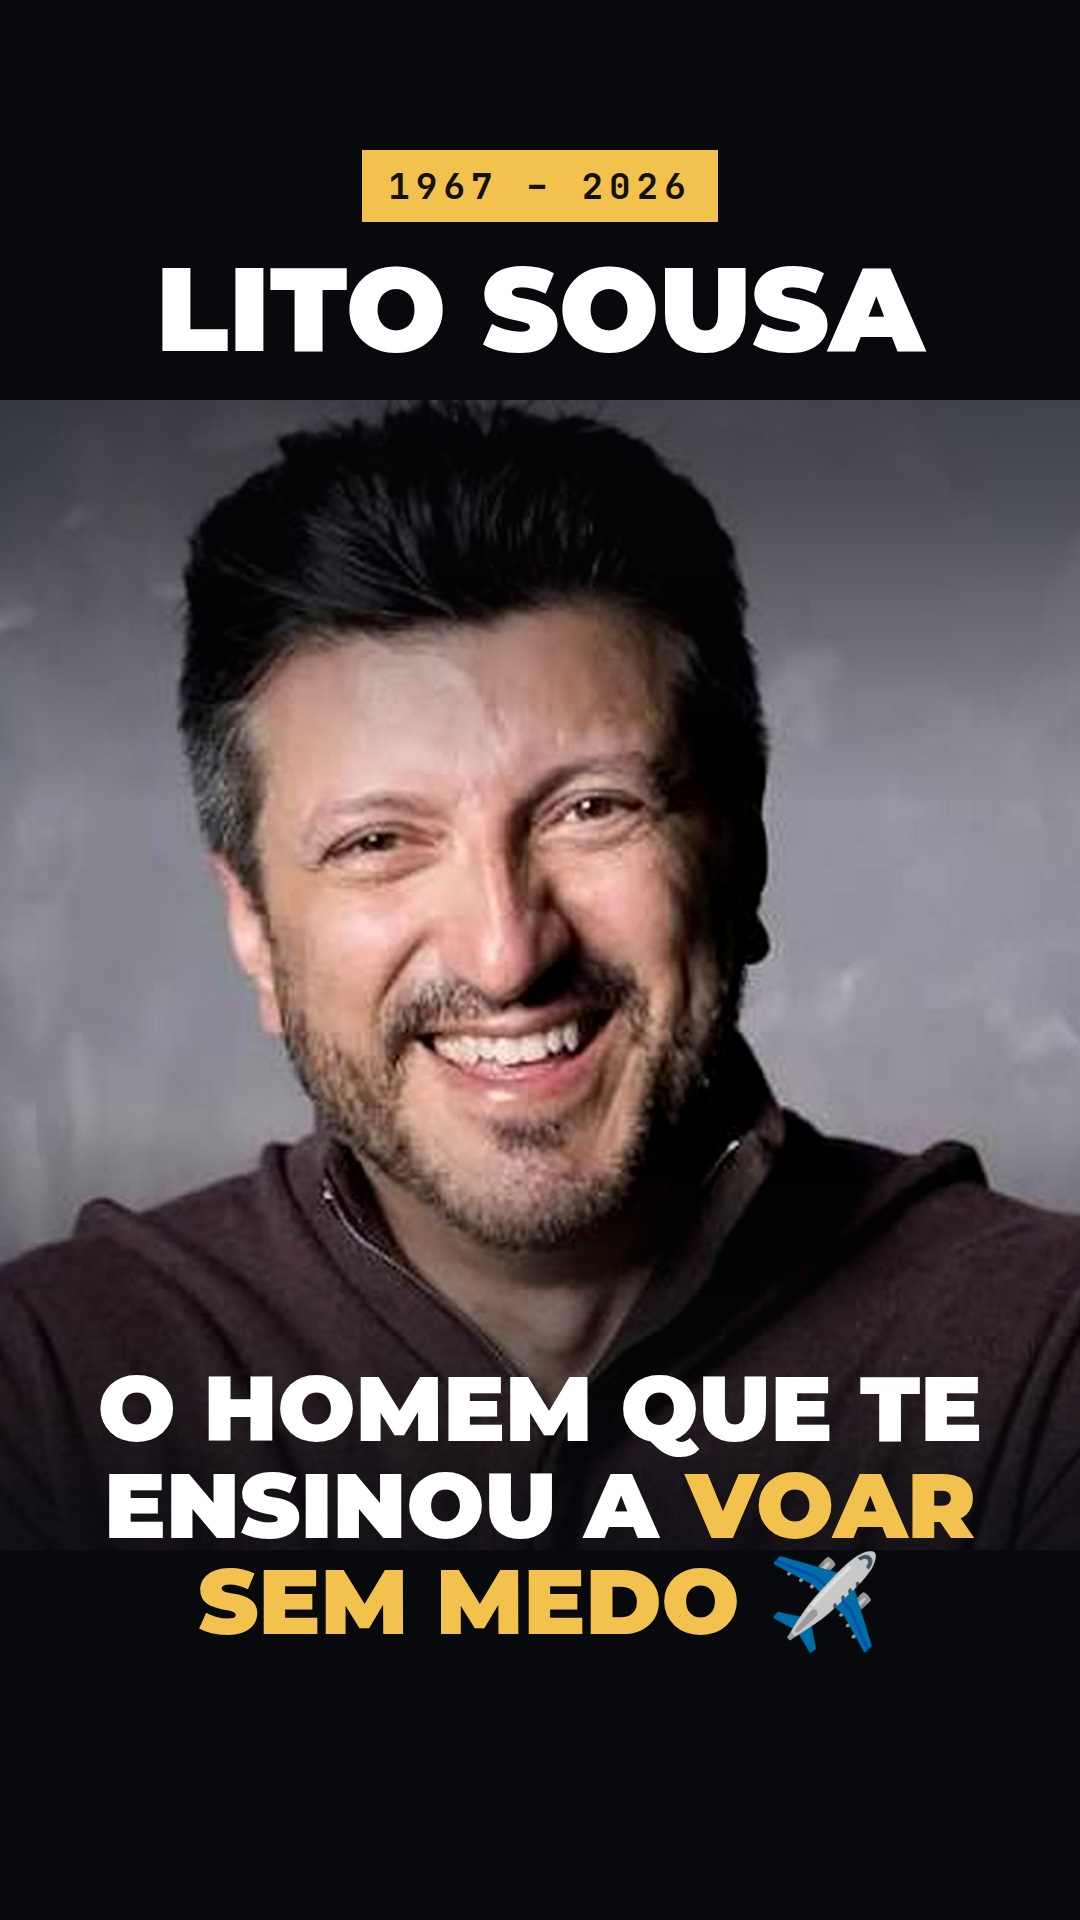
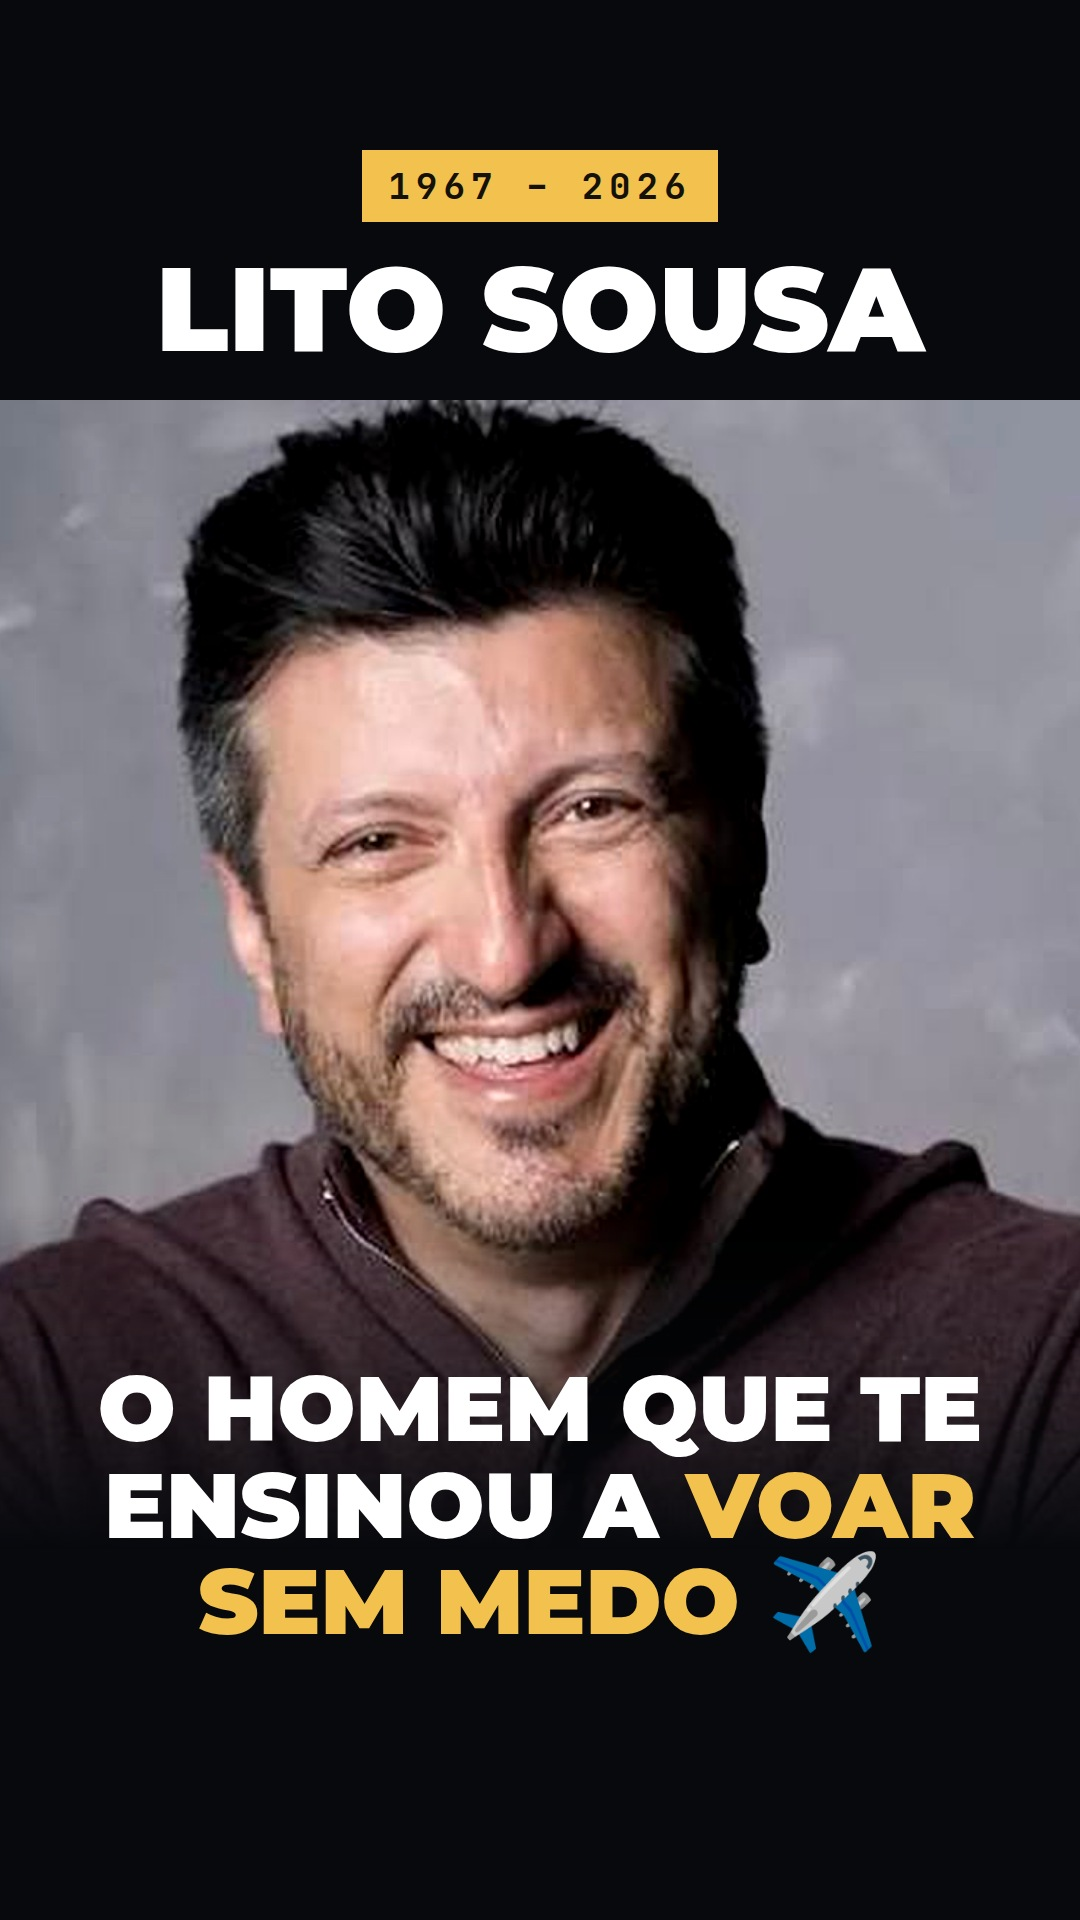
Capa A: suaviza borda inferior da foto
Claude-Session: https://claude.ai/code/session_01Fk8aMVUdW5nNx9QqjKmNPr

diff --git a/videos/homenagem_lito_sousa/composicao_short/capas916.py b/videos/homenagem_lito_sousa/composicao_short/capas916.py
@@ -7,8 +7,8 @@ body{margin:0}#c{position:relative;width:1080px;height:1920px;overflow:hidden;ba
 %s</style></head><body><div id="c">%s</div></body></html>'''
 V={}
 # A — rosto grande + frase
-V['A']=('''.ph{left:-268px;top:400px;height:1150px;filter:contrast(1.05) saturate(1.05)}
-.sh{inset:0;background:linear-gradient(#07090df0 0%,#07090d80 26%,#07090d00 42%,#07090d00 58%,#07090dcc 78%,#07090d 100%)}''',
+V['A']=('''.ph{left:-268px;top:400px;height:1150px;filter:contrast(1.05) saturate(1.05);-webkit-mask-image:linear-gradient(#000 0%,#000 70%,transparent 100%)}
+.sh{display:none}''',
 '''<img class="a ph" src="assets/img/retrato.jpg"><div class="a sh"></div>
 <div class="a" style="left:0;right:0;top:150px;text-align:center"><span class="tag">1967 – 2026</span></div>
 <div class="a" style="left:40px;right:40px;top:250px;text-align:center;font-size:118px;line-height:1">LITO SOUSA</div>
